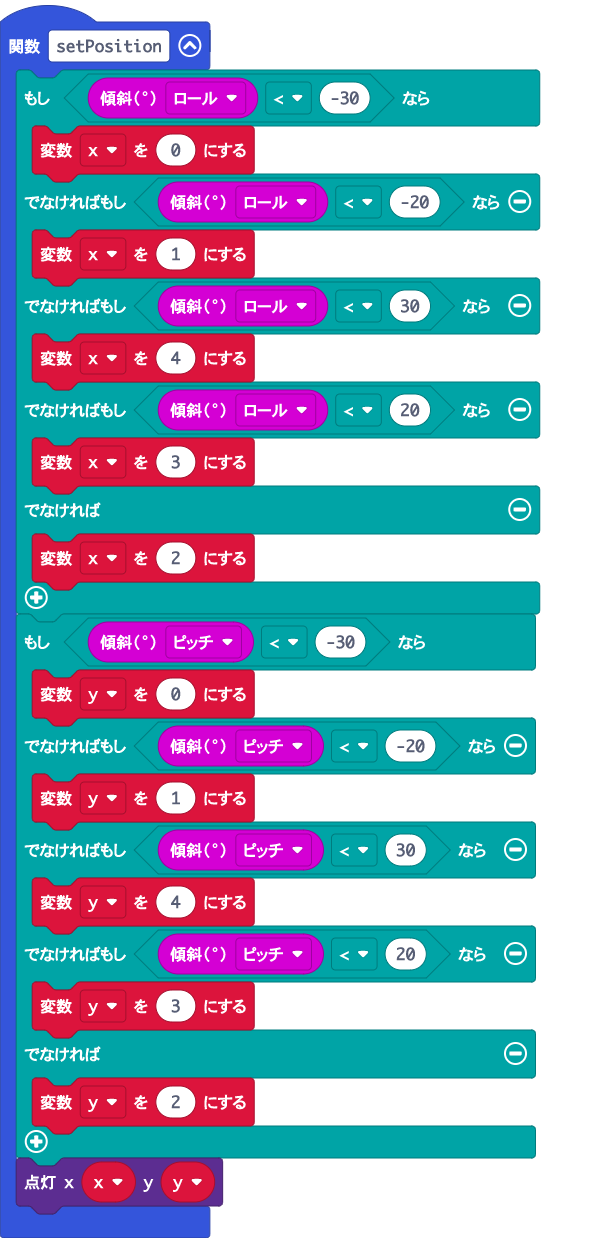
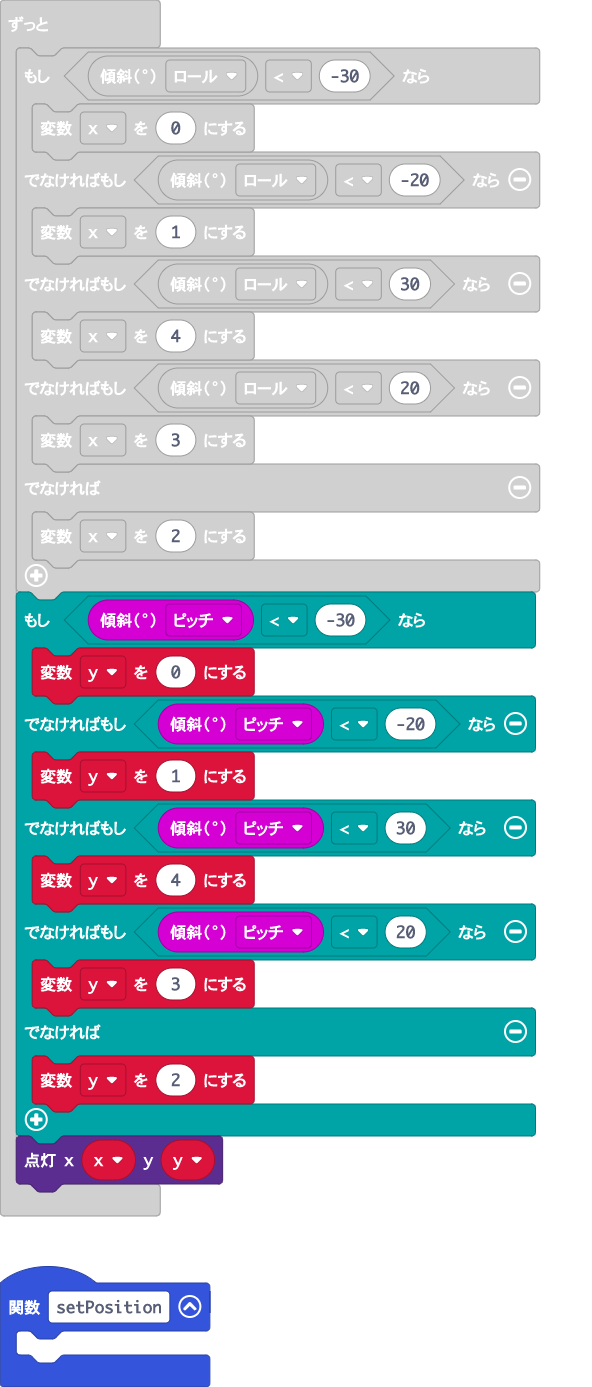
更新 main.blocks, main.ts

diff --git a/main.ts b/main.ts
@@ -1,4 +1,10 @@
 function setPosition () {
+	
+}
+let x = 2
+let y = 2
+led.plot(x, y)
+basic.forever(function () {
     if (input.rotation(Rotation.Roll) < -30) {
         x = 0
     } else if (input.rotation(Rotation.Roll) < -20) {
@@ -22,12 +28,4 @@ function setPosition () {
         y = 2
     }
     led.plot(x, y)
-}
-let y = 0
-let x = 0
-x = 2
-y = 2
-led.plot(x, y)
-basic.forever(function () {
-	
 })
